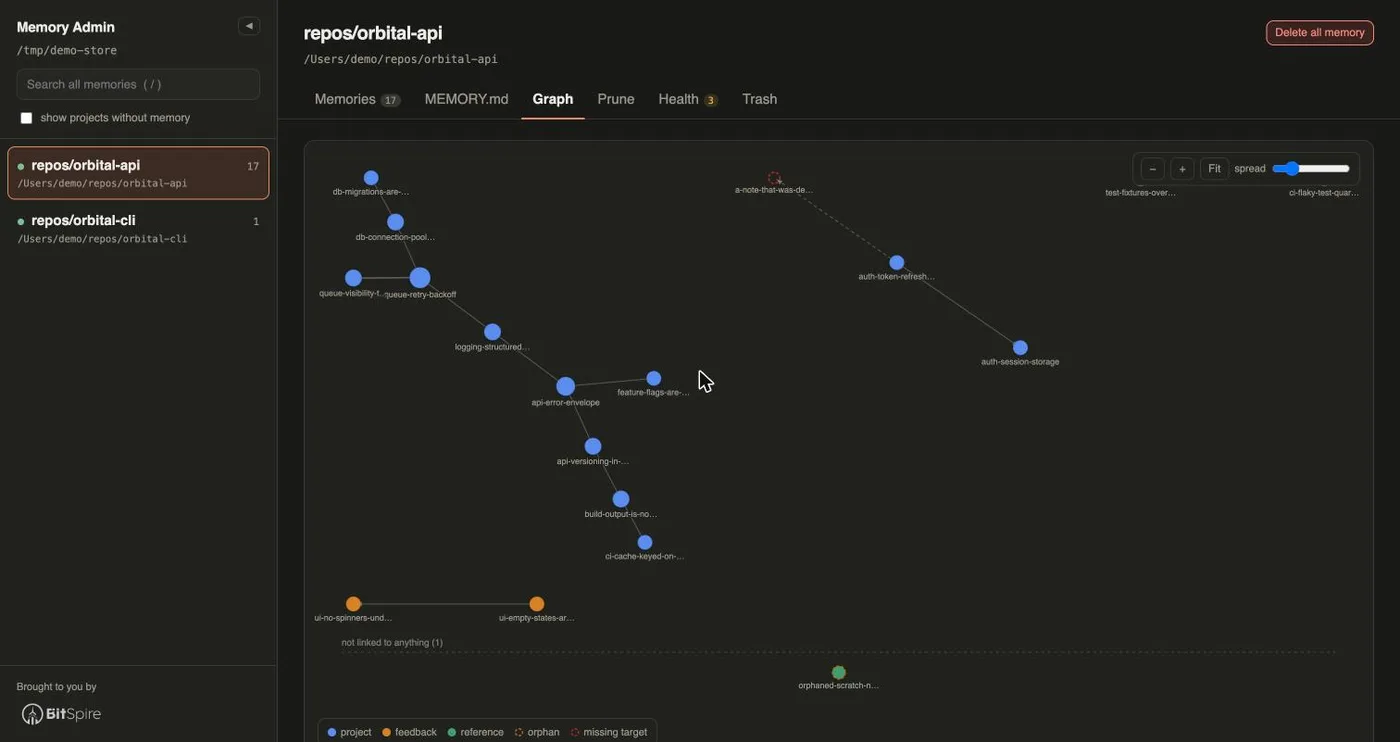
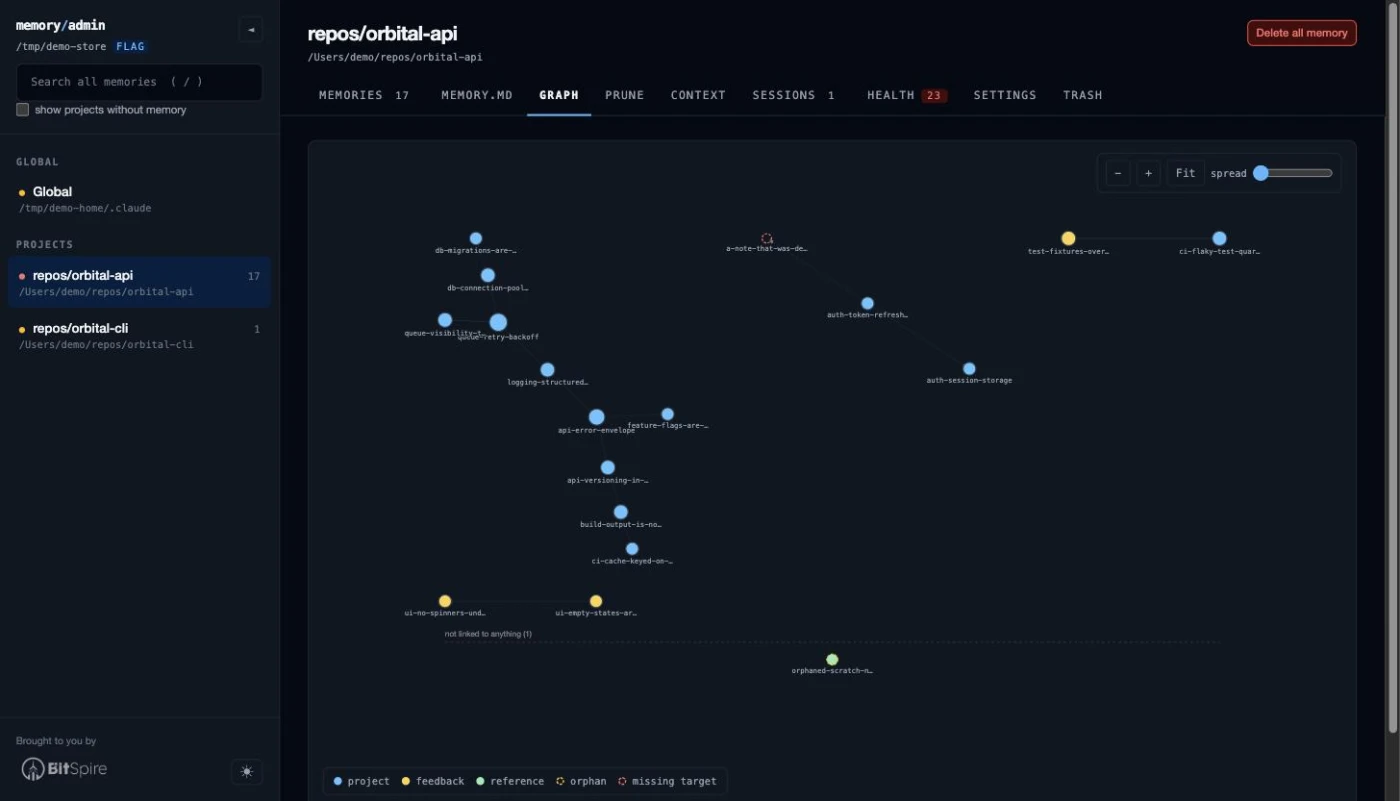
docs: Update screenshots

diff --git a/README.md b/README.md
@@ -25,9 +25,20 @@ itself, and worth saying out loud.
 
 ![The Prune tab, showing how much of the MEMORY.md load limit a project uses and a sortable list of memories by age, size and inbound links](assets/prune.webp)
 
+### Health: every problem found, worst first
+
+![The Health tab in the light theme, listing checks ranked by severity: a broken wikilink, a memory no index entry points at, index hooks over 200 characters, hooks that only restate the file's own description, and an empty section](assets/health.webp)
+
 ### Graph: see how memories link to each other
 
-![The Graph tab, showing memories as nodes coloured by type with wikilinks as edges](assets/graph.webp)
+![The Graph tab, showing memories as nodes coloured by type with wikilinks as edges, orphans below a dashed line and a dashed outline where a link points at nothing](assets/graph.webp)
+
+### Context: what every session loads before a project is even chosen
+
+![The Global entry's Context tab, showing the estimated token cost of the user-scope instruction files, a file reached twice through both an import and the rules directory, and the order the files load in](assets/context.webp)
+
+There is a light theme and a dark one, toggled with `t`; the Health shot above is
+the light one and the rest are dark.
 
 ---
 
